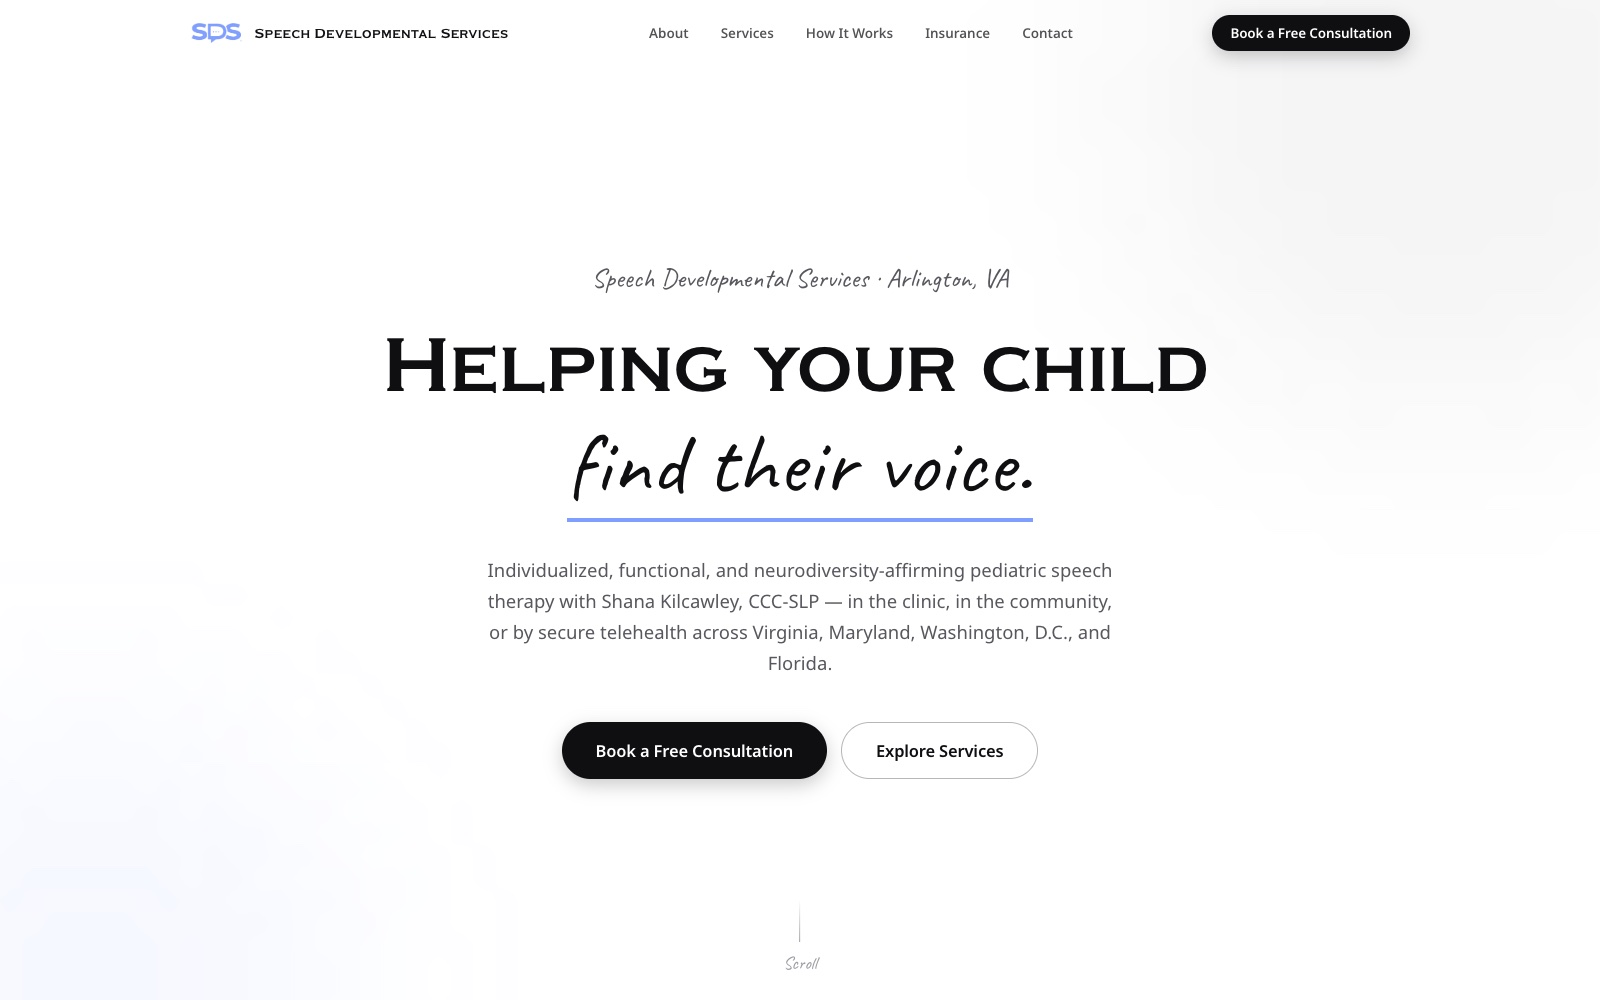
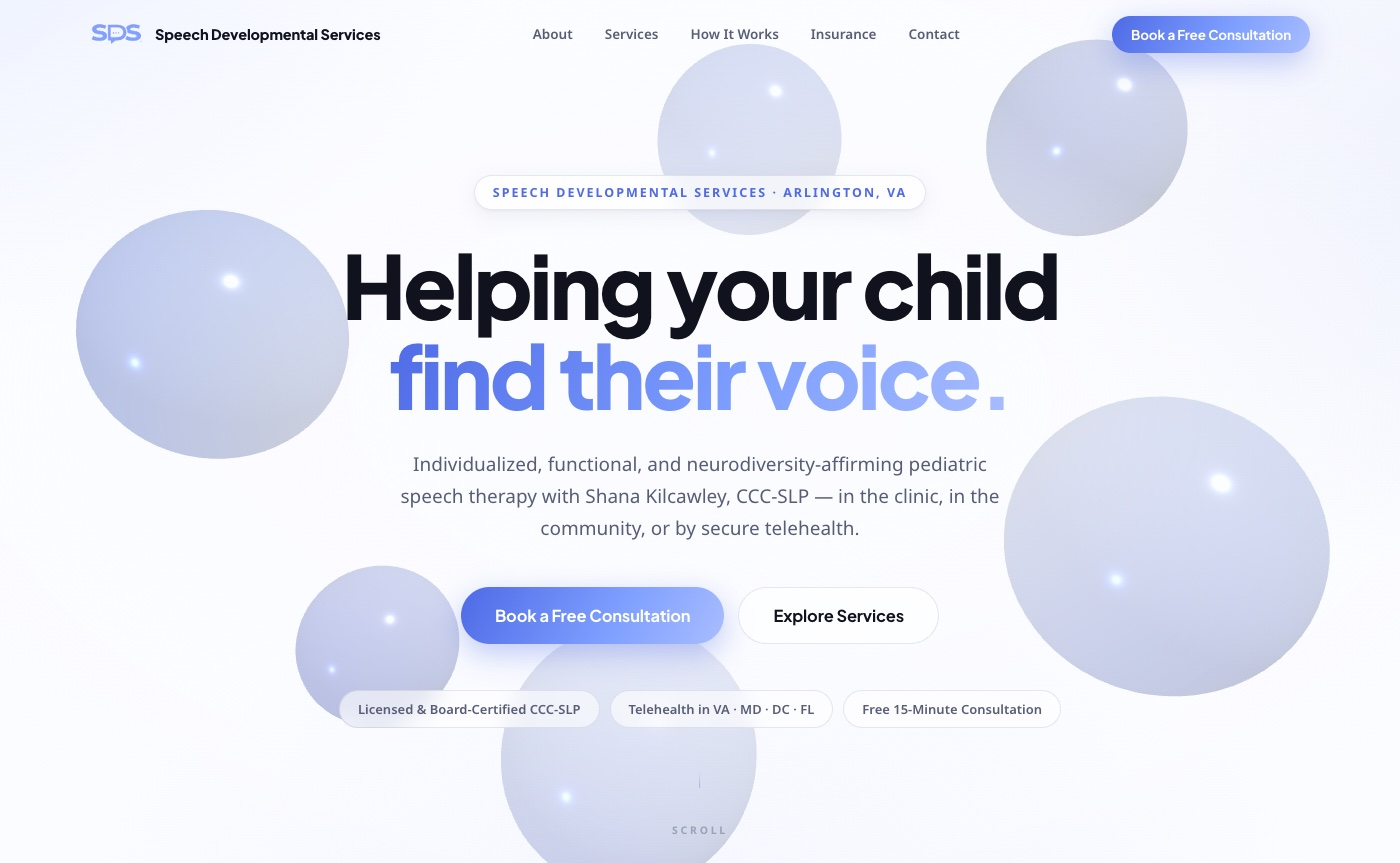
Refresh SDS card for v3 Depth & Motion redesign

diff --git a/src/content/data.js b/src/content/data.js
@@ -136,9 +136,9 @@ export const projects = [
     title: 'Speech Developmental Services',
     year: '2026',
     category: 'Client Work · Web',
-    blurb: 'A monochrome editorial site for a pediatric speech-language pathologist — opened by a 3D pen drawing her logo in ink.',
+    blurb: 'A dimensional, scroll-driven site for a pediatric speech-language pathologist — opened by a 3D pen drawing her logo in ink.',
     description:
-      'A professional single-page site for Speech Developmental Services (Shana Kilcawley, CCC-SLP), a pediatric speech therapy practice in Arlington, VA. The intro is a custom stroke-drawing engine: her logo is auto-traced into vector contours (marching squares over the PNG) and a three.js fountain pen draws the outline in real time before it crossfades into the periwinkle mark. The design is ink-on-paper editorial — white page, near-black type in four self-hosted Google Fonts, hairline cards — where color only appears on touch: a grayscale portrait blooms to color, icon tiles invert, insurer dots flush their brand colors. Built with React + Vite and deployed on GitHub Pages.',
+      'A professional single-page site for Speech Developmental Services (Shana Kilcawley, CCC-SLP), a pediatric speech therapy practice in Arlington, VA. The 3-second intro is a custom stroke-drawing engine: her logo is auto-traced into vector contours (marching squares over the PNG) and a three.js fountain pen draws the outline in real time before it crossfades into the periwinkle mark. Inside, a second three.js scene floats soft glass orbs behind the hero with scroll parallax, and the whole page moves on scroll — a gradient progress bar, 3D card entrances, and a step timeline that fills as you read. Glass chips, aurora-lit dark contact panel, scrollspy nav, and a copy-email button round out the UI. Built with React + Vite and deployed on GitHub Pages.',
     tags: ['React', 'Three.js', 'Framer Motion', 'Vite'],
     media: asset('speech-developmental-services.jpg'),
     url: 'https://ethan-goldstein.github.io/speech-developmental-services/',
